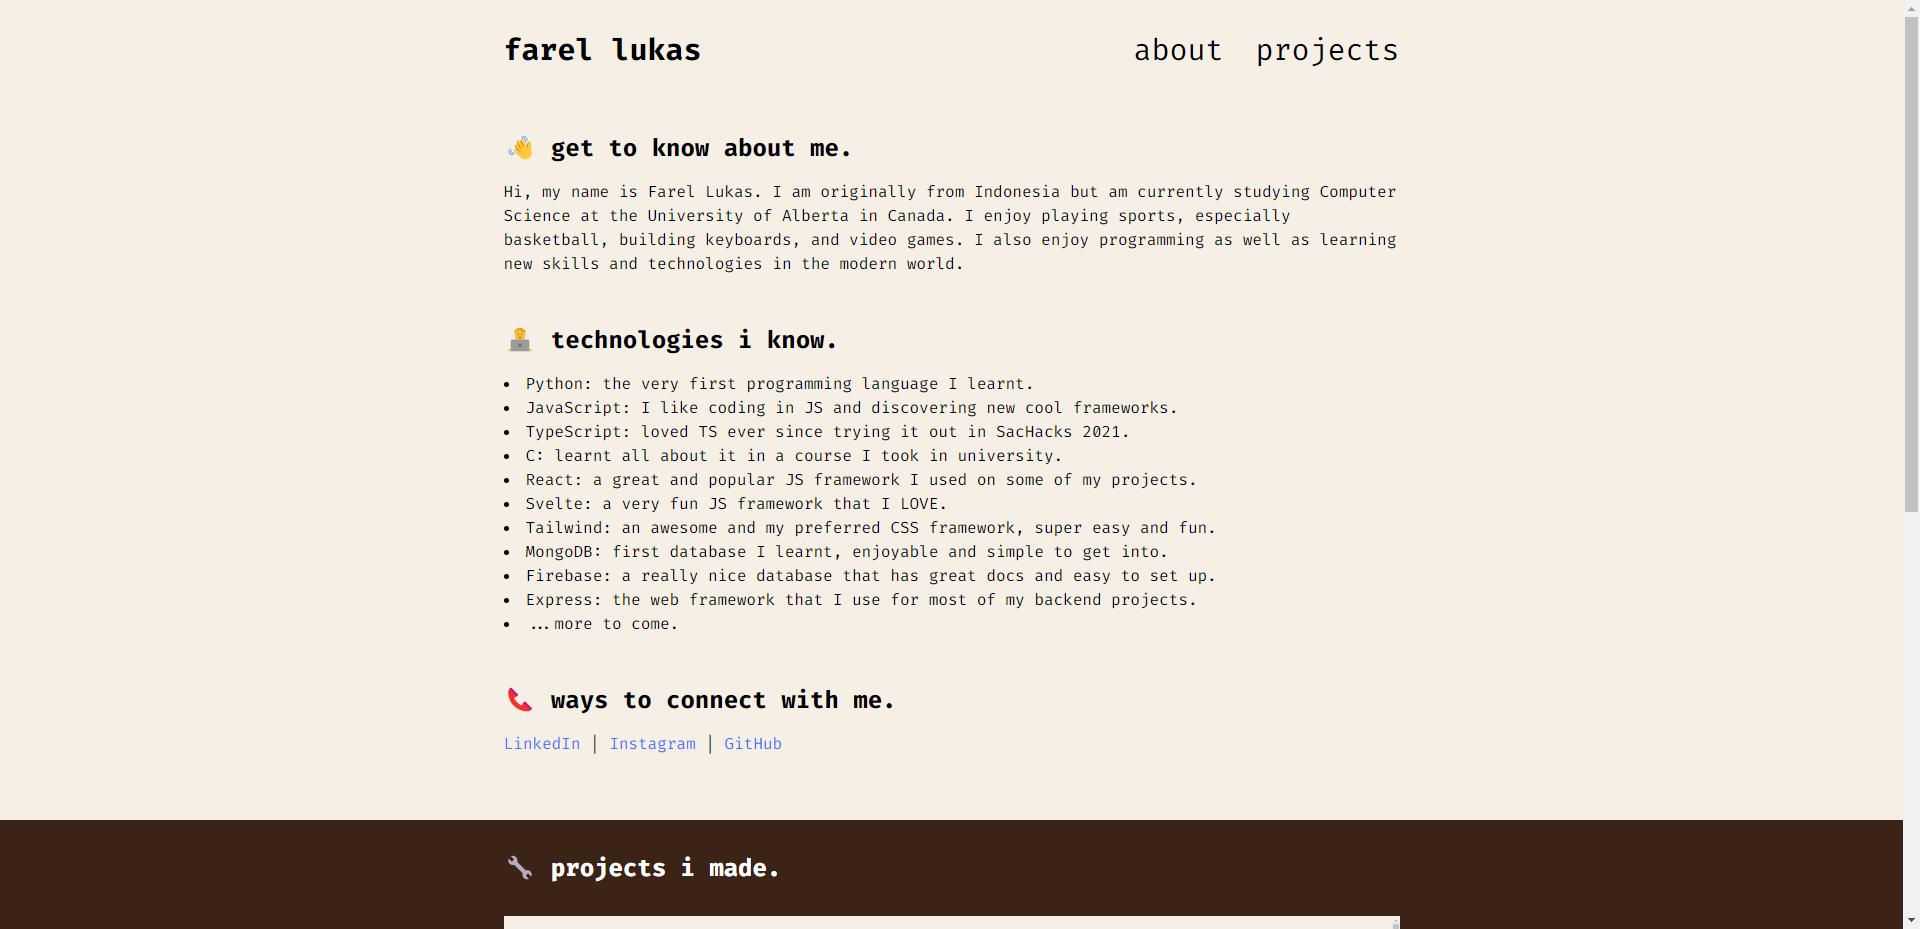
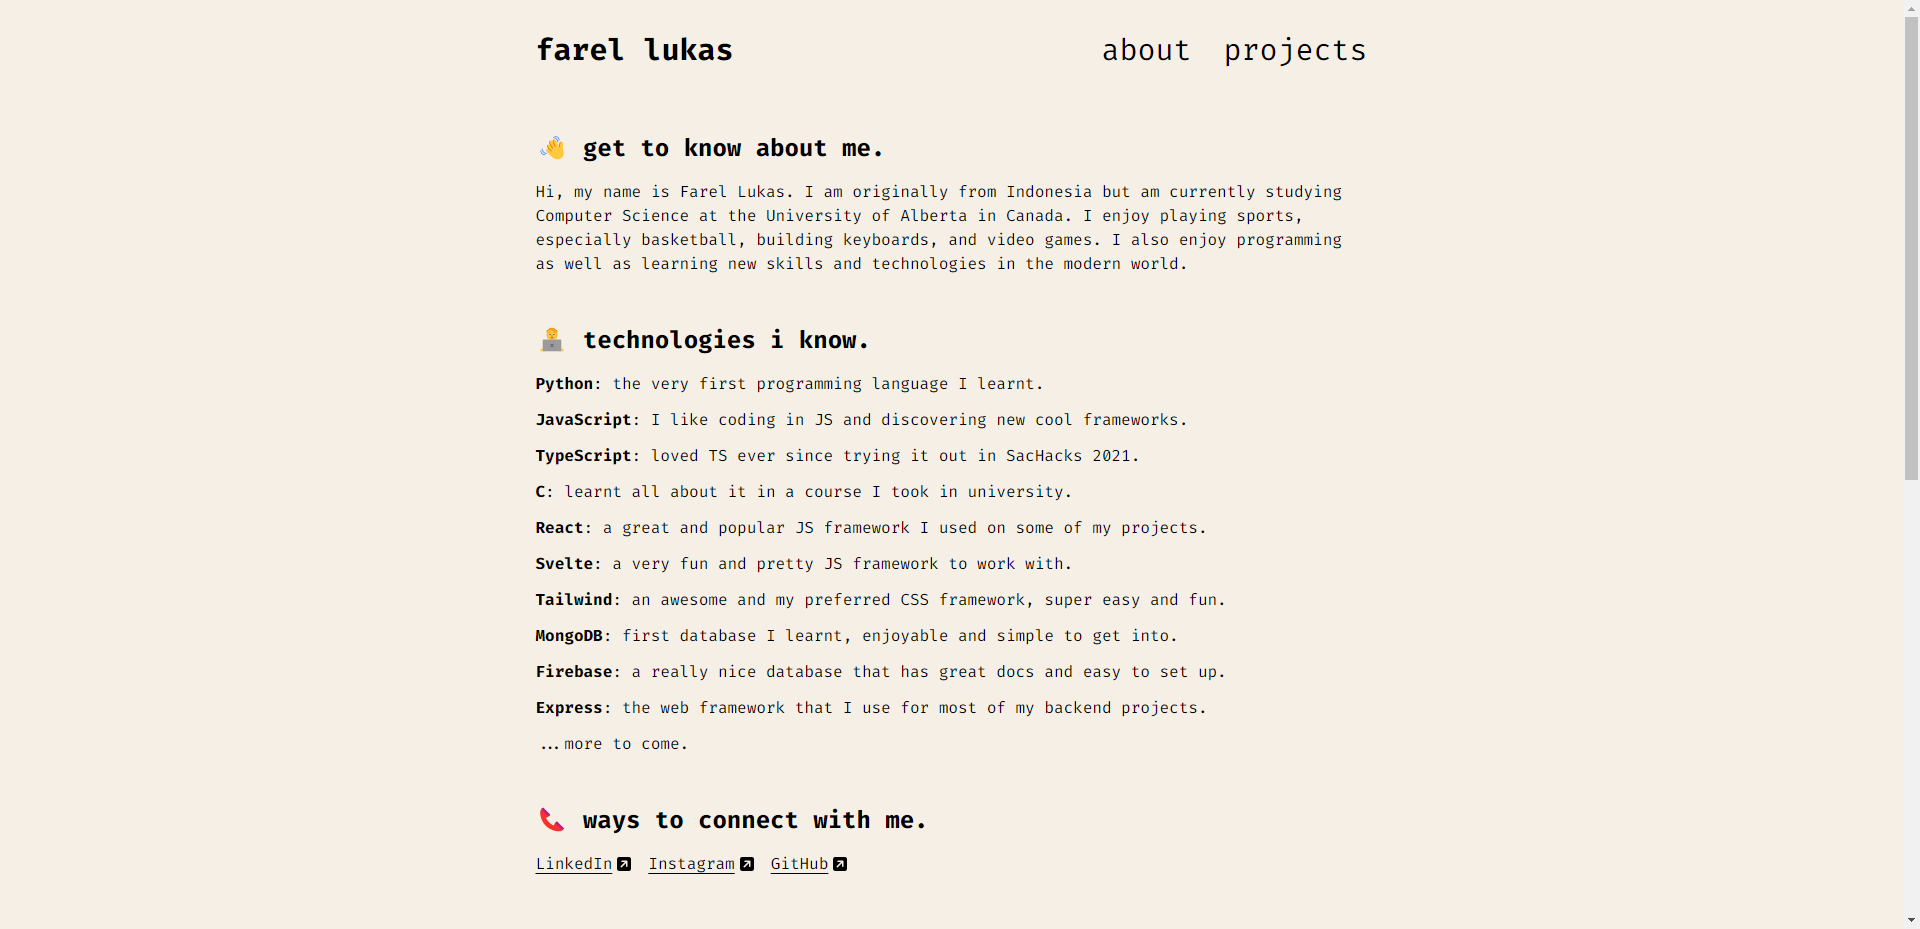
Updated about section

diff --git a/src/lib/About.svelte b/src/lib/About.svelte
@@ -1,4 +1,71 @@
 <script lang="ts">
+  type Skill = {
+    name: string;
+    desc: string;
+  };
+
+  type SocialLink = {
+    name: string;
+    link: string;
+  };
+
+  const skills: Skill[] = [
+    {
+      name: "Python",
+      desc: "the very first programming language I learnt.",
+    },
+    {
+      name: "JavaScript",
+      desc: "I like coding in JS and discovering new cool frameworks.",
+    },
+    {
+      name: "TypeScript",
+      desc: "loved TS ever since trying it out in SacHacks 2021.",
+    },
+    {
+      name: "C",
+      desc: "learnt all about it in a course I took in university.",
+    },
+    {
+      name: "React",
+      desc: "a great and popular JS framework I used on some of my projects.",
+    },
+    {
+      name: "Svelte",
+      desc: "a very fun and pretty JS framework to work with.",
+    },
+    {
+      name: "Tailwind",
+      desc: "an awesome and my preferred CSS framework, super easy and fun.",
+    },
+    {
+      name: "MongoDB",
+      desc: "first database I learnt, enjoyable and simple to get into.",
+    },
+    {
+      name: "Firebase",
+      desc: "a really nice database that has great docs and easy to set up.",
+    },
+    {
+      name: "Express",
+      desc: "the web framework that I use for most of my backend projects.",
+    },
+  ];
+
+  const socialLinks: SocialLink[] = [
+    {
+      name: "LinkedIn",
+      link: "https://www.linkedin.com/in/farellukas",
+    },
+    {
+      name: "Instagram",
+      link: "https://www.instagram.com/farellukas",
+    },
+    {
+      name: "GitHub",
+      link: "https://www.github.com/farellukas",
+    },
+  ];
 </script>
 
 <section id="about" class="my-16 flex flex-col gap-12">
@@ -16,55 +83,41 @@
   <div class="flex flex-col gap-4">
     <h5>🧑💻 technologies i know.</h5>
     <ul>
-      <li>Python: the very first programming language I learnt.</li>
-      <li>
-        JavaScript: I like coding in JS and discovering new cool frameworks.
-      </li>
-      <li>TypeScript: loved TS ever since trying it out in SacHacks 2021.</li>
-      <li>C: learnt all about it in a course I took in university.</li>
-      <li>
-        React: a great and popular JS framework I used on some of my projects.
-      </li>
-      <li>Svelte: a very fun JS framework that I LOVE.</li>
-      <li>
-        Tailwind: an awesome and my preferred CSS framework, super easy and fun.
-      </li>
-      <li>
-        MongoDB: first database I learnt, enjoyable and simple to get into.
-      </li>
-      <li>
-        Firebase: a really nice database that has great docs and easy to set up.
-      </li>
-      <li>
-        Express: the web framework that I use for most of my backend projects.
-      </li>
+      {#each skills as skill}
+        <li class="mb-3"><b>{skill.name}</b>: {skill.desc}</li>
+      {/each}
       <li>...more to come.</li>
     </ul>
   </div>
 
   <div class="flex flex-col gap-4">
     <h5>📞 ways to connect with me.</h5>
-    <p>
-      <a
-        href="https://www.linkedin.com/in/farellukas"
-        target="_blank"
-        rel="noreferrer"
-        class="text-[#3C79F5]">LinkedIn</a
-      >
-      |
-      <a
-        href="https://www.instagram.com/farellukas"
-        target="_blank"
-        rel="noreferrer"
-        class="text-[#3C79F5]">Instagram</a
-      >
-      |
-      <a
-        href="https://www.github.com/farellukas"
-        target="_blank"
-        rel="noreferrer"
-        class="text-[#3C79F5]">GitHub</a
-      >
-    </p>
+    <div class="sm:flex sm:gap-4">
+      {#each socialLinks as socialLink}
+        <a
+          href={socialLink.link}
+          target="_blank"
+          rel="noreferrer"
+          class="flex items-center gap-1 mb-3 sm:mb-0 underline underline-offset-4"
+        >
+          <p>
+            {socialLink.name}
+          </p>
+
+          <!-- icon -->
+          <svg
+            xmlns="http://www.w3.org/2000/svg"
+            viewBox="0 0 448 512"
+            width="16px"
+            height="16px"
+            class="inline"
+          >
+            <path
+              d="M384 32c35.3 0 64 28.7 64 64V416c0 35.3-28.7 64-64 64H64c-35.3 0-64-28.7-64-64V96C0 60.7 28.7 32 64 32H384zM160 144c-13.3 0-24 10.7-24 24s10.7 24 24 24h94.1L119 327c-9.4 9.4-9.4 24.6 0 33.9s24.6 9.4 33.9 0l135-135V328c0 13.3 10.7 24 24 24s24-10.7 24-24V168c0-13.3-10.7-24-24-24H160z"
+            />
+          </svg>
+        </a>
+      {/each}
+    </div>
   </div>
 </section>

diff --git a/src/lib/ProjectContent.svelte b/src/lib/ProjectContent.svelte
@@ -35,7 +35,7 @@
   <div class="flex flex-col gap-2">
     <p class="font-bold">tools used:</p>
 
-    <div class="flex gap-2 flex-wrap">
+    <div class="flex gap-4 flex-wrap">
       {#each project.tools as tool}
         <i
           class={`devicon-${tool}-${

diff --git a/src/app.css b/src/app.css
@@ -50,9 +50,13 @@
   }
 
   ul {
-    @apply list-disc;
-    @apply list-inside;
+    @apply list-none;
+    @apply list-outside;
     @apply font-mono;
+  }
+
+  html {
+    @apply scroll-smooth;
   }
 
   body {
